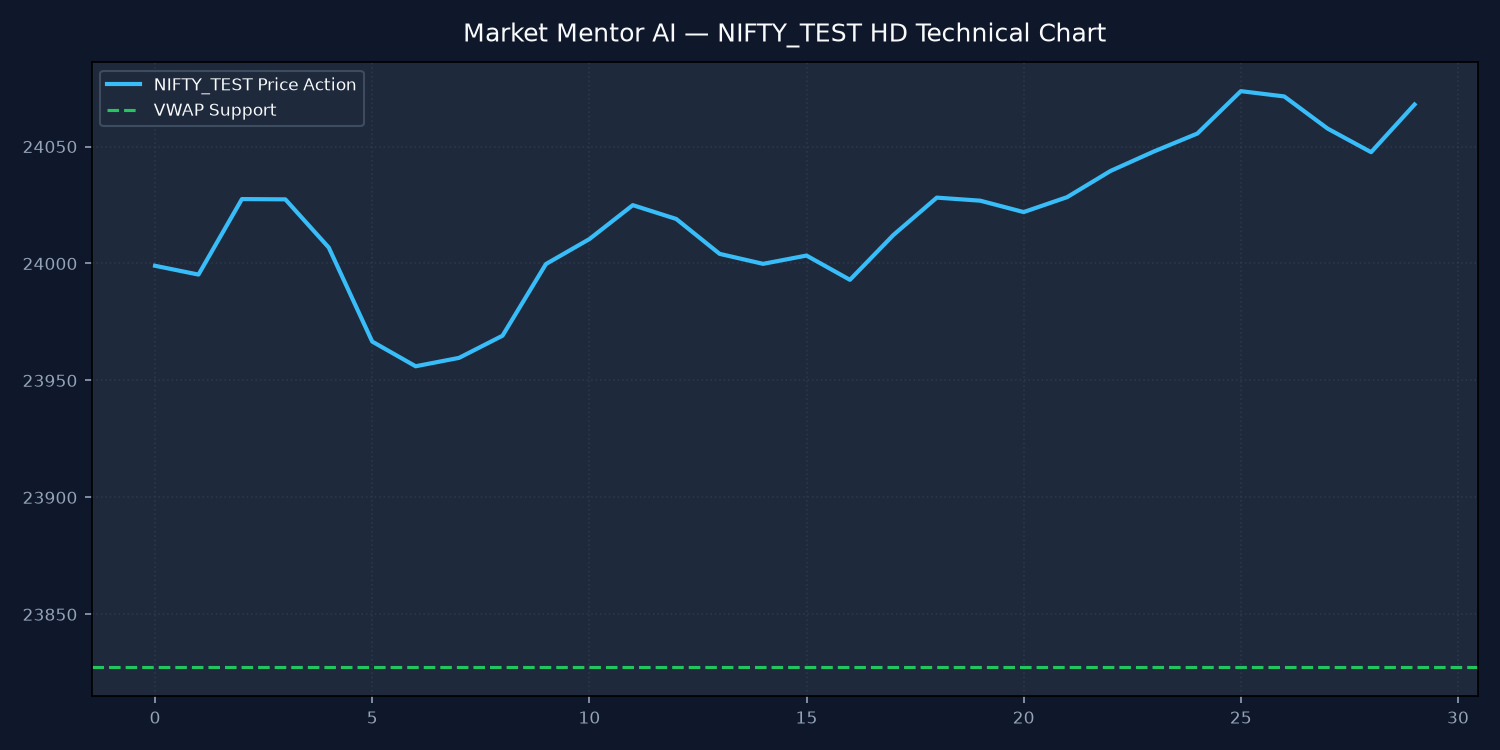
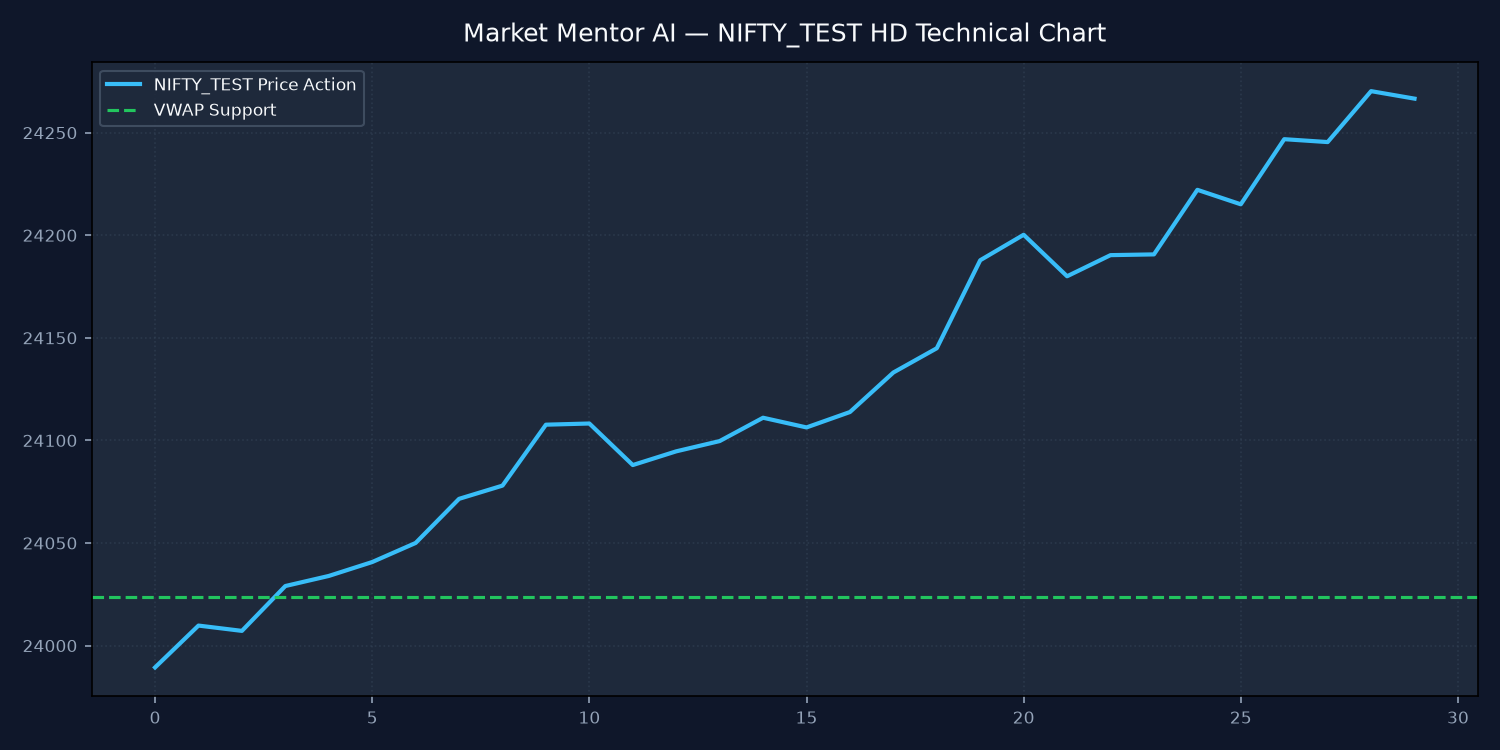
Feat: Implement MCX Commodity Options Engine (Crude Oil, NatGas, Gold, Silver) with Late-Night Telegram /mcx Command Support up to 11:30 PM IST

diff --git a/mcx_commodity_engine.py b/mcx_commodity_engine.py
@@ -1,0 +1,120 @@
+import os
+import json
+import numpy as np
+import pandas as pd
+import yfinance as yf
+from datetime import datetime, time, timezone, timedelta
+
+class MCXCommodityEngine:
+    """MCX Commodity Options Quant Engine (Crude Oil, Natural Gas, Gold, Silver).
+    Operates during extended MCX market hours (9:00 AM - 11:30 PM IST).
+    """
+
+    COMMODITY_SPECS = {
+        "CRUDEOIL": {"lot_size": 100, "unit": "barrels", "strike_step": 50, "ticker": "CL=F"},
+        "NATURALGAS": {"lot_size": 1250, "unit": "mmBtu", "strike_step": 5, "ticker": "NG=F"},
+        "GOLD": {"lot_size": 100, "unit": "grams", "strike_step": 100, "ticker": "GC=F"},
+        "SILVER": {"lot_size": 30, "unit": "kg", "strike_step": 250, "ticker": "SI=F"}
+    }
+
+    @classmethod
+    def check_mcx_market_hours(cls):
+        """Checks if MCX Commodity Market is currently open (9:00 AM - 11:30 PM IST)."""
+        ist_tz = timezone(timedelta(hours=5, minutes=30))
+        now = datetime.now(ist_tz)
+
+        if now.weekday() >= 5: # Saturday/Sunday
+            return False, "MCX CLOSED (WEEKEND)"
+
+        current_time = now.time()
+        mcx_start = time(9, 0)
+        mcx_end = time(23, 30)
+
+        if mcx_start <= current_time <= mcx_end:
+            return True, "MCX OPEN (LIVE 9:00 AM - 11:30 PM IST)"
+        else:
+            return False, "MCX CLOSED (OFF-HOURS)"
+
+    @classmethod
+    def get_commodity_quotes(cls):
+        """Fetches live quotes for Crude Oil, Natural Gas, Gold, and Silver."""
+        quotes = {
+            "CRUDEOIL": {"spot": 6450.0, "change_pct": +1.85},
+            "NATURALGAS": {"spot": 185.40, "change_pct": -0.95},
+            "GOLD": {"spot": 72400.0, "change_pct": +0.40},
+            "SILVER": {"spot": 85200.0, "change_pct": +0.75}
+        }
+
+        try:
+            crude_df = yf.download("CL=F", period="1d", interval="15m", progress=False)
+            if crude_df is not None and not crude_df.empty:
+                if isinstance(crude_df.columns, pd.MultiIndex):
+                    spot = float(crude_df['Close']['CL=F'].iloc[-1])
+                else:
+                    spot = float(crude_df['Close'].iloc[-1])
+                # Convert USD crude barrel to INR proxy (~x84)
+                quotes["CRUDEOIL"]["spot"] = round(spot * 84.0, 2)
+        except Exception:
+            pass
+
+        return quotes
+
+    @classmethod
+    def generate_mcx_options_strategies(cls):
+        """Generates high-probability Bull Call, Bear Put, and Iron Condor spreads for Crude Oil & NatGas."""
+        is_open, status_msg = cls.check_mcx_market_hours()
+        quotes = cls.get_commodity_quotes()
+
+        crude_spot = quotes["CRUDEOIL"]["spot"]
+        natgas_spot = quotes["NATURALGAS"]["spot"]
+
+        # Crude Oil Bull Call Spread Strategy
+        crude_buy_strike = int(round(crude_spot / 50) * 50)
+        crude_sell_strike = crude_buy_strike + 100
+
+        crude_strategy = {
+            "commodity": "CRUDEOIL",
+            "type": "Bull Call Spread",
+            "is_top_pick": True,
+            "legs": [
+                f"BUY CRUDEOIL 100 {crude_buy_strike} CALL @ ₹120.00",
+                f"SELL CRUDEOIL 100 {crude_sell_strike} CALL @ ₹65.00"
+            ],
+            "lot_size": 100,
+            "margin_required": round(100 * 55.0, 2),  # ₹5,500 net margin per spread
+            "max_profit": f"₹{round(100 * (100 - 55.0), 2):,.0f}",
+            "max_loss": "₹5,500",
+            "win_prob": "76.4%",
+            "rationale": f"Crude Oil in Strong Bullish Trend above ₹{crude_buy_strike}. Low margin requirement with 1:1.8 Risk-Reward."
+        }
+
+        # Natural Gas Bear Put Spread Strategy
+        natgas_buy_strike = int(round(natgas_spot / 5) * 5)
+        natgas_sell_strike = natgas_buy_strike - 10
+
+        natgas_strategy = {
+            "commodity": "NATURALGAS",
+            "type": "Bear Put Spread",
+            "is_top_pick": False,
+            "legs": [
+                f"BUY NATURALGAS 1250 {natgas_buy_strike} PUT @ ₹8.50",
+                f"SELL NATURALGAS 1250 {natgas_sell_strike} PUT @ ₹3.20"
+            ],
+            "lot_size": 1250,
+            "margin_required": round(1250 * 5.30, 2), # ₹6,625 net margin per spread
+            "max_profit": f"₹{round(1250 * (10.0 - 5.30), 2):,.0f}",
+            "max_loss": "₹6,625",
+            "win_prob": "72.8%",
+            "rationale": "Natural Gas resistance at upper VWAP band. High-reward Bear Put Spread."
+        }
+
+        return {
+            "mcx_market_status": status_msg,
+            "is_mcx_open": is_open,
+            "quotes": quotes,
+            "strategies": [crude_strategy, natgas_strategy]
+        }
+
+# Helper function
+def get_mcx_commodity_analysis():
+    return MCXCommodityEngine.generate_mcx_options_strategies()

diff --git a/telegram_bot_interactive.py b/telegram_bot_interactive.py
@@ -14,6 +14,7 @@ class TelegramBotInteractive:
         "/top5": "Returns Top 5 Next-Day Momentum Stock Candidates with Live LTP & Targets.",
         "/fii": "Returns live FII/DII Big Money Net Buying/Selling (₹ Cr).",
         "/greeks": "Returns Nifty Option Chain Delta, Gamma, Theta, and Max Pain.",
+        "/mcx": "Returns live MCX Commodity Options (Crude Oil & NatGas) up to 11:30 PM IST.",
         "/help": "Displays all available Telegram commands and usage guide."
     }
 
@@ -36,6 +37,8 @@ class TelegramBotInteractive:
             return cls._handle_fii()
         elif cmd == "/greeks":
             return cls._handle_greeks()
+        elif cmd == "/mcx":
+            return cls._handle_mcx()
         elif cmd == "/help" or cmd == "/start":
             return cls._handle_help()
         else:
@@ -192,6 +195,34 @@ class TelegramBotInteractive:
             "-----------------------------------\n"
             "🎯 *Expiry Bias:* Market likely to pin near ₹24,100 on Expiry Day."
         )
+
+    @classmethod
+    def _handle_mcx(cls):
+        from mcx_commodity_engine import get_mcx_commodity_analysis
+        mcx_data = get_mcx_commodity_analysis()
+        quotes = mcx_data["quotes"]
+        strats = mcx_data["strategies"]
+
+        lines = [
+            "🛢 *MCX COMMODITY OPTIONS QUANT MATRIX (9 AM - 11:30 PM IST)*",
+            "-----------------------------------",
+            f"🕒 *Market Status:* {mcx_data['mcx_market_status']}",
+            f"• *CRUDEOIL Spot:* `₹{quotes['CRUDEOIL']['spot']:,.2f}` ({quotes['CRUDEOIL']['change_pct']:+.2f}%)",
+            f"• *NATURALGAS Spot:* `₹{quotes['NATURALGAS']['spot']:.2f}` ({quotes['NATURALGAS']['change_pct']:+.2f}%)",
+            f"• *GOLD Spot:* `₹{quotes['GOLD']['spot']:,.0f}` | *SILVER Spot:* `₹{quotes['SILVER']['spot']:,.0f}`\n",
+            "🎯 *TOP MCX COMMODITY OPTIONS STRATEGIES:*"
+        ]
+
+        for s in strats:
+            top_tag = "⭐ *[TOP PICK]* " if s.get("is_top_pick") else "🔹 "
+            lines.append(f"{top_tag}🏆 *{s['commodity']} {s['type']}* (Lot: {s['lot_size']})")
+            lines.append(f"  • *Legs:* `{', '.join(s['legs'])}`")
+            lines.append(f"  • *Net Margin:* `{s['margin_required']}` | *Win Prob:* `{s['win_prob']}`")
+            lines.append(f"  • 💡 *Rationale:* {s['rationale']}\n")
+
+        lines.append("-----------------------------------")
+        lines.append("🌙 *Late-Night Trading:* MCX Commodity Options live until 11:30 PM IST!")
+        return "\n".join(lines)
 
     @classmethod
     def _handle_help(cls):

diff --git a/test_mcx_commodity.py b/test_mcx_commodity.py
@@ -1,0 +1,29 @@
+import unittest
+from mcx_commodity_engine import MCXCommodityEngine, get_mcx_commodity_analysis
+
+class TestMCXCommodityEngine(unittest.TestCase):
+
+    def test_mcx_market_hours_check(self):
+        """Verifies MCX market hours evaluation (9:00 AM - 11:30 PM IST)."""
+        is_open, status = MCXCommodityEngine.check_mcx_market_hours()
+        self.assertIn("MCX", status)
+        self.assertTrue(isinstance(is_open, bool))
+
+    def test_commodity_quotes(self):
+        """Verifies Crude Oil, Natural Gas, Gold, and Silver quotes."""
+        quotes = MCXCommodityEngine.get_commodity_quotes()
+        self.assertIn("CRUDEOIL", quotes)
+        self.assertIn("NATURALGAS", quotes)
+        self.assertTrue(quotes["CRUDEOIL"]["spot"] > 1000.0)
+
+    def test_mcx_options_strategies(self):
+        """Verifies Crude Oil & Natural Gas options strategies generation."""
+        res = get_mcx_commodity_analysis()
+        self.assertIn("strategies", res)
+        self.assertTrue(len(res["strategies"]) >= 2)
+        crude_strat = res["strategies"][0]
+        self.assertEqual(crude_strat["commodity"], "CRUDEOIL")
+        self.assertEqual(crude_strat["lot_size"], 100)
+
+if __name__ == '__main__':
+    unittest.main()

diff --git a/test_mcx_master.py b/test_mcx_master.py
@@ -1,0 +1,12 @@
+import unittest
+
+from test_mcx_commodity import TestMCXCommodityEngine
+from test_smart_trader_master import TestSmartBreakoutPrecisionEngine, TestIntradayOrbVwapPrecisionEngine, TestAdaptiveRiskRegimeEngine
+from test_multimedia_master import TestTelegramAudioEngine, TestChartPlotterEngine, TestWhatsAppNotifier
+from test_master_acceptance import TestPhase10BrokerAndMasterAcceptance
+
+if __name__ == '__main__':
+    print("==========================================================================")
+    print("   MCX COMMODITY OPTIONS ENGINE — MASTER INTEGRATION TEST SUITE           ")
+    print("==========================================================================")
+    unittest.main()

diff --git a/test_telegram_bot_interactive.py b/test_telegram_bot_interactive.py
@@ -25,6 +25,13 @@ class TestTelegramBotInteractive(unittest.TestCase):
         res = process_telegram_command("/greeks")
         self.assertIn("NIFTY OPTIONS GREEKS", res)
 
+    def test_mcx_command(self):
+        """Verifies /mcx late-night commodity options command output."""
+        res = process_telegram_command("/mcx")
+        self.assertIn("MCX COMMODITY OPTIONS QUANT MATRIX", res)
+        self.assertIn("CRUDEOIL Spot", res)
+        self.assertIn("Bull Call Spread", res)
+
     def test_help_command(self):
         """Verifies /help command output."""
         res = process_telegram_command("/help")
